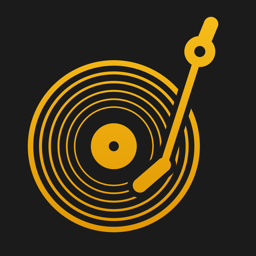
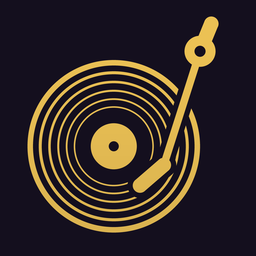
Epicure palette on the support and privacy pages

Changed region(s): [[0.0938, 0.0625, 0.875, 0.9375], [0.3438, 0.4688, 0.5625, 0.6875]]

diff --git a/style.css b/style.css
@@ -1,5 +1,5 @@
-:root { --bg: #fbfaf7; --fg: #1c1b19; --muted: #6a665d; --accent: #b8780a; --card: #fff; --line: #e6e1d6; }
-@media (prefers-color-scheme: dark) { :root { --bg: #151514; --fg: #f1efe9; --muted: #a8a399; --accent: #e5a00d; --card: #1e1e1c; --line: #2f2e2a; } }
+:root { --bg: #f6f2fb; --fg: #140f1e; --muted: #5d5470; --accent: #8c5c00; --card: #fff; --line: #ddd3ec; }
+@media (prefers-color-scheme: dark) { :root { --bg: #140f1e; --fg: #f4eefb; --muted: #b0a3c6; --accent: #e3ba52; --card: #1e1730; --line: #3a2f52; } }
 * { box-sizing: border-box; }
 body { margin: 0; background: var(--bg); color: var(--fg); font: 17px/1.6 -apple-system, BlinkMacSystemFont, "Segoe UI", system-ui, sans-serif; }
 header, main, footer { max-width: 44rem; margin: 0 auto; padding: 0 1.25rem; }
